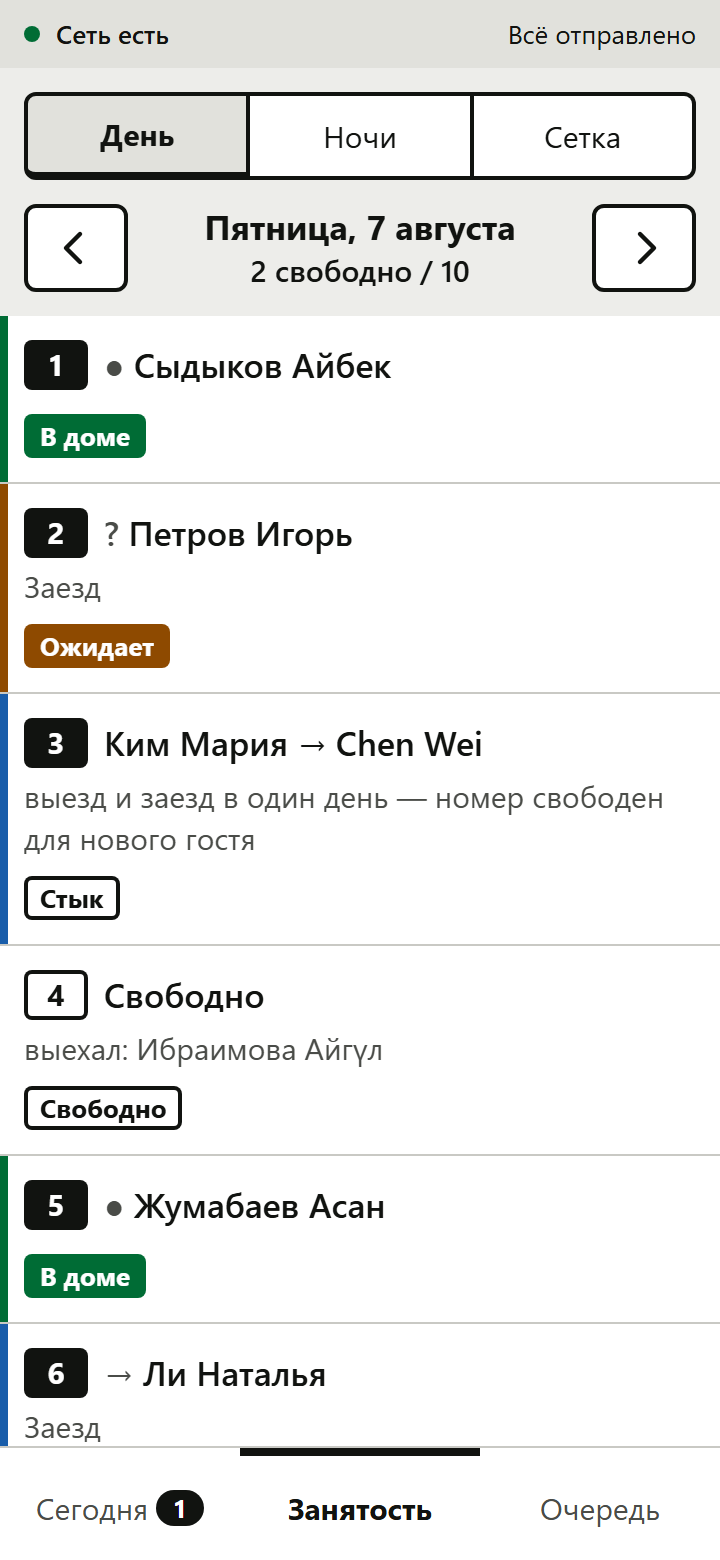
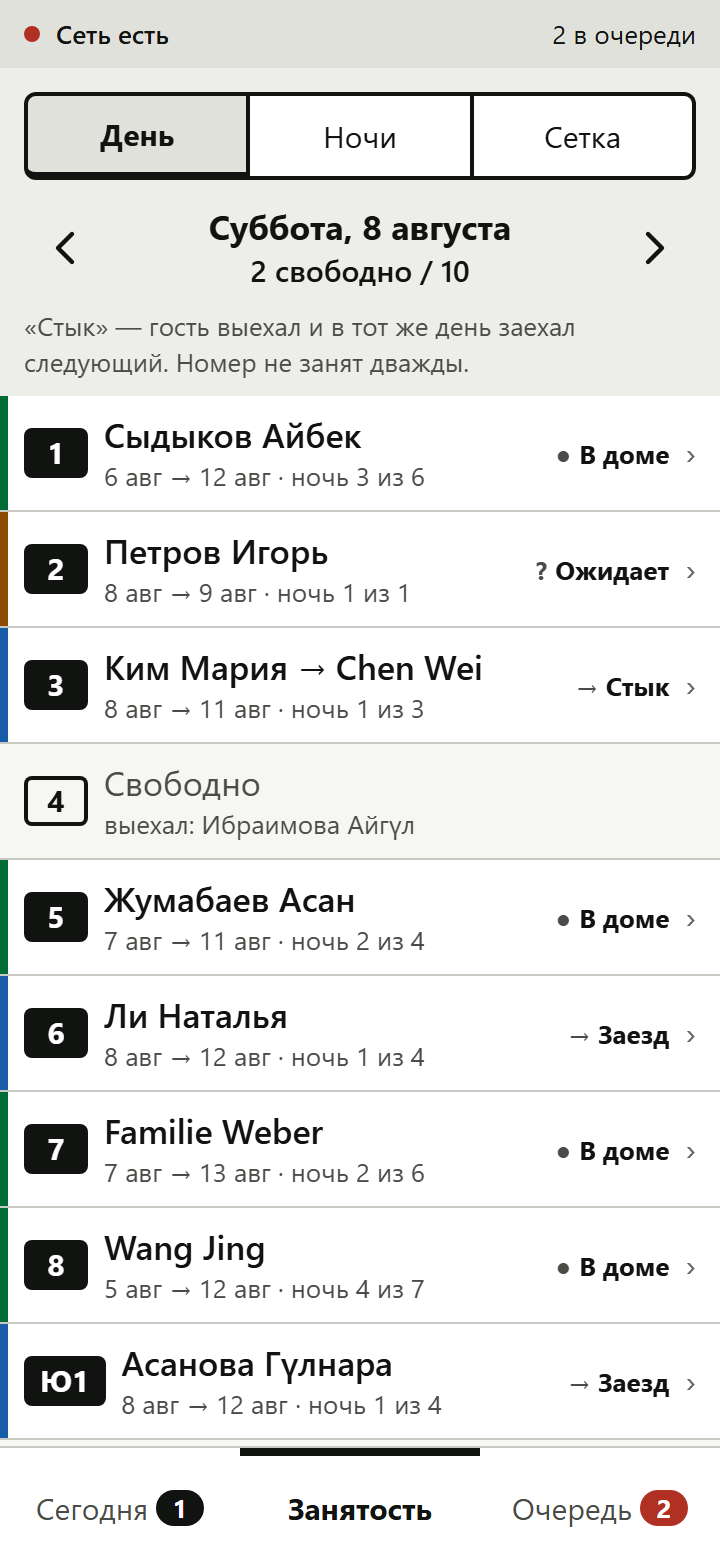
refactor(web): переделать режим «День» — строка снова несёт факты
По отзыву: «глаза расходятся, непонятно что куда нажимать». Разбор снимка
подтвердил шесть причин, и главная из них моя.

1. Я заменил ДАННЫЕ ОБЪЯСНЕНИЕМ. В прототипе строка несёт «4 авг → 7 авг ·
   ночь 2/3»; у меня вместо этого стояло предложение «выезд и заезд в один
   день — номер свободен для нового гостя», причём в каждой строке со
   стыком. Это был самый длинный текст на экране, и это сноска, а не
   информация. Перестарался с критерием «полуинтервалы читаются без
   легенды» и превратил строку списка в пояснение.
   Факты вернулись: «6 авг → 12 авг · ночь 3 из 6». Объяснение стыка
   теперь ОДИН раз под заголовком дня и только когда стык на экране есть.

2. Четыре разных левых края в одной строке — не за что зацепиться взглядом.
   Теперь две вертикали: слева номер, имя и факты; справа одно слово о том,
   что с номером сегодня. Взгляд идёт двумя колонками, а не зигзагом.

3. Статус говорился дважды: глиф плюс плашка, а у свободных «Свободно»
   стояло и строкой, и плашкой — слово дублировало само себя. Осталось:
   цвет на маркере слева, слово справа, глиф перед словом.

4. Ничего не выглядело нажимаемым, хотя строка открывает карточку.
   Добавлен шеврон — и его нет у свободных номеров, которые не открываются.

5. Влезало 8 номеров из 10 при том, что смысл режима — увидеть дом целиком.
   Строка ужата с ~78px до --nc-touch-action, помещается 9–10.

6. Стрелки перелистывания были двумя обведёнными квадратами и перетягивали
[…]

diff --git a/apps/web/components/OccupancyDay.vue b/apps/web/components/OccupancyDay.vue
@@ -1,18 +1,24 @@
 <script setup lang="ts">
-import { addDays, toDay } from "~/utils/dates"
+import { addDays, nights, toDay } from "~/utils/dates"
 import { statusColorVar, statusGlyph } from "~/utils/status"
 
 /**
- * Режим «День» — умолчание. Выигрывает вопрос «что у меня сегодня», который
- * задают двадцать раз в день, и это прямой аналог страницы бумажной тетради.
+ * Режим «День» — умолчание. Отвечает на «что у меня сегодня» одним взглядом,
+ * и главное требование к нему — весь дом на экране без прокрутки.
  *
- * Стык [checkIn, checkOut) подписан СЛОВАМИ: «Ким Мария → Chen Wei» плюс
- * плашка «Стык» и пояснение под ней. Геометрию здесь читать нечего, поэтому
- * единственный способ не соврать — сказать прямым текстом, что номер свободен
- * для нового гостя в тот же день.
+ * Строка держится на ДВУХ вертикалях, а не на четырёх отступах:
+ *   слева  — номер и кто в нём, под ним факты;
+ *   справа — что с ним происходит сегодня одним словом.
+ * Взгляд идёт двумя колонками сверху вниз, а не зигзагом по строке.
+ *
+ * Пояснение к стыку живёт ОДИН раз под заголовком дня. Раньше оно стояло
+ * в каждой строке целым предложением, было самым длинным текстом на экране
+ * и вытесняло собой данные — а строка списка обязана нести факты, а не
+ * сноску. Сам стык читается из строки: «Ким → Chen», метка «Стык» справа
+ * и «ночь 1 из 3» снизу.
  */
 const { t } = useI18n()
-const { longDay, freeText } = useDateText()
+const { longDay, dateRange, freeText } = useDateText()
 const { rooms, today, occupiedOn, leavingOn, isTurnDay, freeRooms } =
   useAvailability()
 
@@ -28,15 +34,65 @@ const list = computed(() =>
     const booking = occupiedOn(room, cursor.value)
     const leaving = leavingOn(room, cursor.value)
     const turn = isTurnDay(room, cursor.value)
-    return { room, booking, leaving, turn }
+
+    if (!booking) {
+      return {
+        room,
+        booking: null,
+        // Свободный номер — одна строка без дубля. Раньше слово «Свободно»
+        // стояло и в строке, и в плашке справа: слово дублировало само себя.
+        name: t("occupancy.free"),
+        facts: leaving
+          ? t("occupancy.leftToday", { guest: leaving.guest?.name ?? "" })
+          : (room.roomType?.name ?? ""),
+        mark: "",
+        glyph: "",
+      }
+    }
+
+    const from = toDay(booking.checkIn)
+    const to = toDay(booking.checkOut)
+    const total = nights(from, to)
+    /* Какая это ночь по счёту. Для стыка всегда первая — и это ровно то,
+       что делает стык понятным без объяснений. */
+    const index = nights(from, cursor.value) + 1
+
+    /* Статус выигрывает у события: HOLD, заезжающий сегодня, не должен
+       получить метку «Заезд» — это как раз та бронь, по которой владельцу
+       нужно принять решение. */
+    let mark: string
+    if (booking.status === "HOLD") mark = t("booking.status.HOLD")
+    else if (turn) mark = t("occupancy.turn")
+    else if (from === cursor.value) mark = t("occupancy.arrival")
+    else mark = t(`booking.status.${booking.status}`)
+
+    return {
+      room,
+      booking,
+      name: turn
+        ? `${leaving?.guest?.name ?? ""} → ${booking.guest?.name ?? ""}`
+        : (booking.guest?.name ?? ""),
+      facts: `${dateRange(booking.checkIn, booking.checkOut)} · ${t("occupancy.nightOf", { i: index, n: total })}`,
+      mark,
+      glyph: statusGlyph(booking.status),
+    }
   }),
 )
+
+const hasTurn = computed(() => list.value.some((i) => i.booking && isTurnDay(i.room, cursor.value)))
+
+function open(bookingId: string | undefined) {
+  if (bookingId) navigateTo(`/booking/${bookingId}`)
+}
 </script>
 
 <template>
   <div>
     <div class="nav">
-      <NcButton variant="secondary" size="sm" :aria-label="t('occupancy.prevDay')" @click="cursor = addDays(cursor, -1)">
+      <!-- Тихие, а не обведённые: перелистывание день-за-днём — наименее
+           важное действие экрана, и двумя тяжёлыми квадратами оно
+           перетягивало на себя взгляд раньше содержимого. -->
+      <NcButton variant="quiet" size="sm" :aria-label="t('occupancy.prevDay')" @click="cursor = addDays(cursor, -1)">
         <NcIcon name="back" />
       </NcButton>
       <div class="nav__mid">
@@ -47,59 +103,44 @@ const list = computed(() =>
             : t('occupancy.fullBooked', { total: rooms.length }) }}
         </div>
       </div>
-      <NcButton variant="secondary" size="sm" :aria-label="t('occupancy.nextDay')" @click="cursor = addDays(cursor, 1)">
+      <NcButton variant="quiet" size="sm" :aria-label="t('occupancy.nextDay')" @click="cursor = addDays(cursor, 1)">
         <NcIcon name="forward" />
       </NcButton>
     </div>
 
-    <!-- Тап-цель — вся строка: отдельная кнопка на имени не набирает 44px -->
+    <!-- Объяснение стыка — один раз на экран и только когда стык есть -->
+    <p v-if="hasTurn" class="turnnote">{{ t('occupancy.turnNote') }}</p>
+
     <div
       v-for="item in list"
       :key="item.room.id"
+      class="row"
+      :class="{ 'row--free': !item.booking }"
       :role="item.booking ? 'button' : undefined"
       :tabindex="item.booking ? 0 : undefined"
-      class="rowhit"
-      @click="item.booking && navigateTo(`/booking/${item.booking.id}`)"
-      @keydown.enter="item.booking && navigateTo(`/booking/${item.booking.id}`)"
-      @keydown.space.prevent="item.booking && navigateTo(`/booking/${item.booking.id}`)"
+      @click="open(item.booking?.id)"
+      @keydown.enter="open(item.booking?.id)"
+      @keydown.space.prevent="open(item.booking?.id)"
     >
-    <NcRow
-      :marker="item.booking ? statusColorVar(item.booking.status) : undefined"
-      :interactive="!!item.booking"
-    >
-      <template #head>
-        <RoomChip :label="item.room.label" :occupied="!!item.booking" />
-        <span class="who">
-          <template v-if="item.turn">
-            {{ item.leaving?.guest?.name }} → {{ item.booking?.guest?.name }}
-          </template>
-          <template v-else-if="item.booking">
-            <span class="who__glyph" aria-hidden="true">{{ statusGlyph(item.booking.status) }}</span>
-            {{ item.booking.guest?.name }}
-          </template>
-          <template v-else>{{ t('occupancy.free') }}</template>
-        </span>
-      </template>
+      <span
+        v-if="item.booking"
+        class="row__marker"
+        :style="{ background: statusColorVar(item.booking.status) }"
+      />
+      <RoomChip :label="item.room.label" :occupied="!!item.booking" />
 
-      <template #meta>
-        <!-- Стык объяснён словами, а не только стрелкой -->
-        <span v-if="item.turn" class="turnhint">{{ t('occupancy.turnHint') }}</span>
-        <span v-else-if="item.leaving && !item.booking">
-          {{ t('occupancy.leftToday', { guest: item.leaving.guest?.name ?? '' }) }}
-        </span>
-        <span v-else-if="!item.booking">{{ item.room.roomType?.name }}</span>
-        <span v-else-if="toDay(item.booking.checkIn) === cursor">{{ t('occupancy.arrival') }}</span>
-        <span v-else-if="toDay(item.booking.checkOut) === cursor">{{ t('occupancy.departure') }}</span>
-      </template>
+      <span class="row__body">
+        <span class="row__name">{{ item.name }}</span>
+        <span class="row__facts">{{ item.facts }}</span>
+      </span>
 
-      <template #tags>
-        <NcPill v-if="item.turn" tone="outline">{{ t('occupancy.turn') }}</NcPill>
-        <NcPill v-else-if="item.booking" :status="item.booking.status">
-          {{ t(`booking.status.${item.booking.status}`) }}
-        </NcPill>
-        <NcPill v-else tone="outline">{{ t('occupancy.free') }}</NcPill>
-      </template>
-    </NcRow>
+      <span v-if="item.mark" class="row__mark">
+        <span class="row__glyph" aria-hidden="true">{{ item.glyph }}</span>
+        {{ item.mark }}
+      </span>
+      <!-- Признак нажимаемости: раньше строка открывала карточку, но об этом
+           ничто не сообщало -->
+      <span v-if="item.booking" class="row__go" aria-hidden="true">›</span>
     </div>
   </div>
 </template>
@@ -109,7 +150,7 @@ const list = computed(() =>
   display: flex;
   align-items: center;
   gap: var(--nc-space-8);
-  padding: 0 var(--nc-space-12) var(--nc-space-12);
+  padding: 0 var(--nc-space-12) var(--nc-space-8);
 }
 .nav__mid { flex: 1; min-width: 0; text-align: center; }
 .nav__day {
@@ -123,17 +164,69 @@ const list = computed(() =>
   font-weight: var(--nc-fw-medium);
   color: var(--nc-text-primary);
 }
-/* Текстовый токен, а не кнопочный: action-danger-fg на canvas даёт 5,9:1 */
 .nav__free--none { color: var(--nc-signal-error-fg); }
 
-.rowhit[role='button'] { cursor: pointer; }
-.who {
-  min-width: 0;
-  color: var(--nc-text-primary);
+.turnnote {
+  margin: 0;
+  padding: 0 var(--nc-space-12) var(--nc-space-8);
+  font-size: var(--nc-fs-100);
+  line-height: var(--nc-lh-100);
+  color: var(--nc-text-secondary);
+}
+
+.row {
+  position: relative;
+  display: flex;
+  align-items: center;
+  gap: var(--nc-space-8);
+  min-height: var(--nc-touch-action);
+  padding: var(--nc-space-8) var(--nc-space-12);
+  background: var(--nc-bg-surface);
+  border-bottom: var(--nc-stroke-hair) solid var(--nc-border-line);
+}
+.row[role='button'] { cursor: pointer; }
+.row--free { background: var(--nc-bg-sunken); }
+.row__marker { position: absolute; inset: 0 auto 0 0; width: var(--nc-stroke-accent); }
+
+.row__body { flex: 1; min-width: 0; }
+.row__name {
+  display: block;
+  overflow: hidden;
+  white-space: nowrap;
+  text-overflow: ellipsis;
   font-size: var(--nc-fs-300);
   line-height: var(--nc-lh-300);
   font-weight: var(--nc-fw-medium);
+  color: var(--nc-text-primary);
 }
-.who__glyph { color: var(--nc-text-secondary); }
-.turnhint { white-space: normal !important; }
+.row--free .row__name { font-weight: var(--nc-fw-regular); color: var(--nc-text-secondary); }
+.row__facts {
+  display: block;
+  overflow: hidden;
+  white-space: nowrap;
+  text-overflow: ellipsis;
+  font-size: var(--nc-fs-100);
+  line-height: var(--nc-lh-100);
+  color: var(--nc-text-secondary);
+}
+
+/* Правая вертикаль: одно слово про то, что с номером сегодня */
+.row__mark {
+  flex: none;
+  display: inline-flex;
+  align-items: center;
+  gap: var(--nc-space-4);
+  font-size: var(--nc-fs-100);
+  line-height: var(--nc-lh-100);
+  font-weight: var(--nc-fw-bold);
+  color: var(--nc-text-primary);
+  white-space: nowrap;
+}
+.row__glyph { color: var(--nc-text-secondary); }
+.row__go {
+  flex: none;
+  font-size: var(--nc-fs-300);
+  line-height: var(--nc-lh-300);
+  color: var(--nc-text-tertiary);
+}
 </style>
